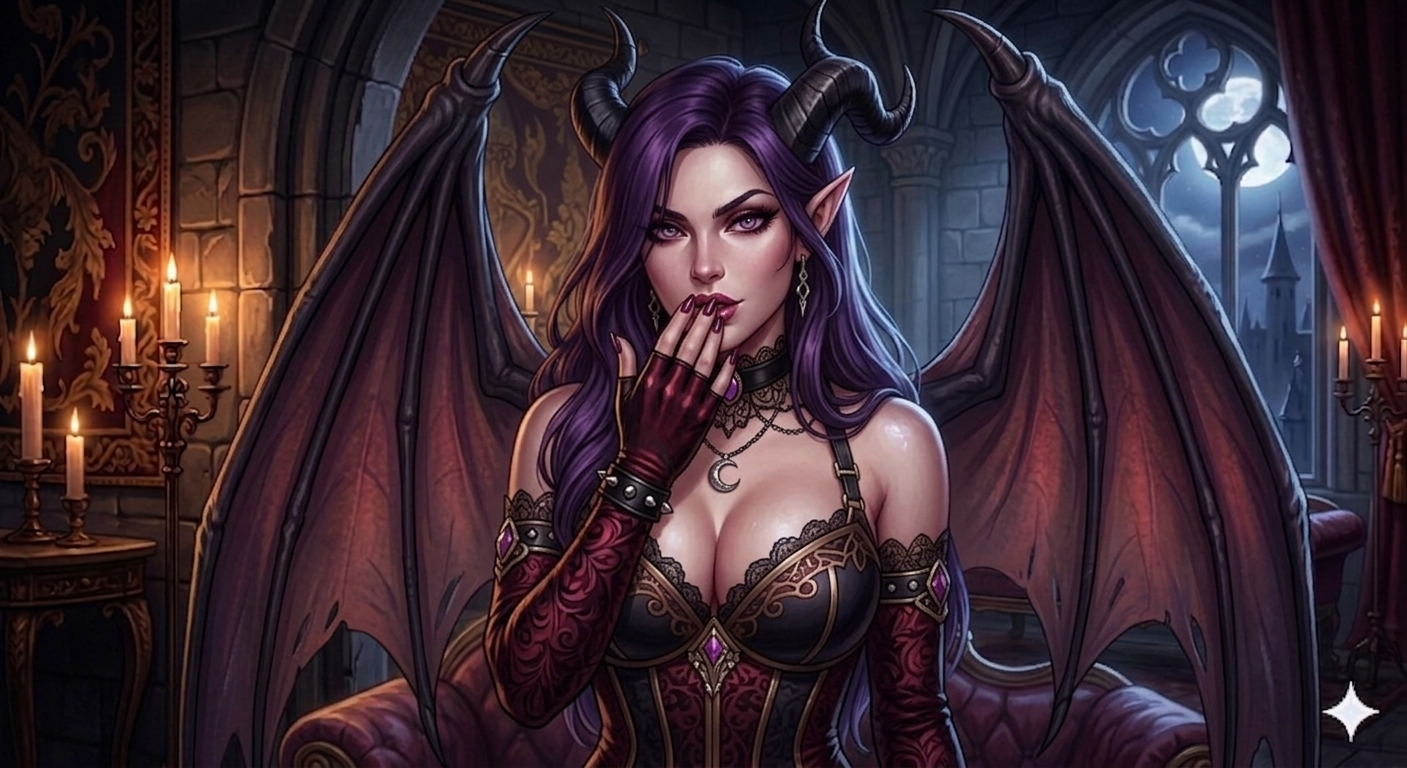
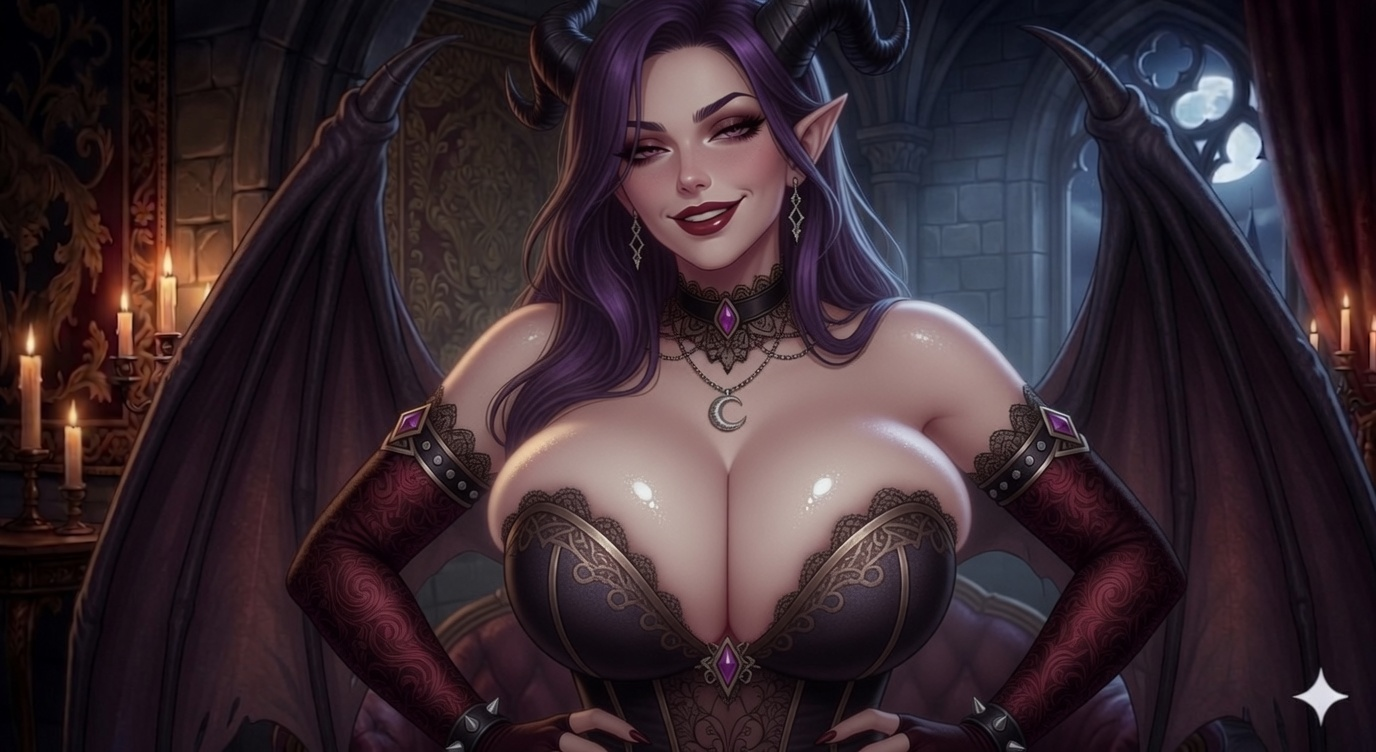
RPG: 스테이지 2배+ 길이 / 도구 액션 / 도구 가호 / 일러 교체
- 층당 7방 → 16방 (보스까지 약 2.3배)
- 새 액션 「도구」 — 5번째 버튼, 소비형 아이템 사용
- TOOLS: 체력 포션, 상급 포션, 불꽃 폭탄, 연막탄, 방벽석, 냉각의 결정, 각성의 모래
  (HP 회복 / 광역 데미지 + 화상 / 회피 / 방어 + 회복 / 쿨다운 즉시 0 / 데미지 +30%)
- 도구 picker 모달 (스킬 picker와 동일 패턴)
- 도구 1종만 보유 시 즉시 사용, 다중 보유 시 picker
- 새 유틸 가호 6종:
  · 약초학자 (common)   — 시작 시 체력 포션 ×2
  · 도굴꾼의 주머니 (common) — 상자에서 도구도 함께 드롭
  · 도구 벨트 (rare)    — 시작 시 무작위 도구 ×3
  · 연금술사 (rare)     — 매 층 시작 시 무작위 도구 ×1
  · 도구 마스터 (epic)  — 엘리트/보스 처치 시 무작위 도구 ×1
  · 도구의 진가 (epic)  — 도구 효과 +50%
- 아리나 이벤트 보상에 50% 확률로 무작위 도구 추가
- 일러 교체:
  · assets/heroes/mage.png (이그니아 일반 체력)
  · assets/scenes/arina.png (서큐버스 아리나)
- 5개 액션 버튼 그리드 (모바일 3열) + 도구 버튼 색 (초록)
- VERSION/캐시 v37-tools-longstage

diff --git a/rpg/game.js b/rpg/game.js
@@ -5,7 +5,7 @@
 const $ = id => document.getElementById(id);
 
 // 빌드 버전 — sw.js의 캐시 키와 같이 올려준다
-const VERSION = 'v36-arina-event';
+const VERSION = 'v37-tools-longstage';
 
 // ===== 영웅 데이터 =====
 const HEROES = [
@@ -195,7 +195,40 @@ const BOONS = [
     apply: g => { applyUnstableSoulTrade(g); } },
   { id: 'b-double',       cat: 'attack', name: '쌍수',       desc: '◆ 공격이 2회 발동 ◇ 모든 스킬 쿨다운 ×2', rarity: 'unstable', mod: { atkMulti: 2, skillCdMul: 2 } },
   { id: 'b-double-skill', cat: 'magic',  name: '이중 시전',  desc: '◆ 스킬이 2회 발동 ◇ 일반 공격 후 2턴 쿨다운', rarity: 'unstable', mod: { skillMulti: 2, attackCdMax: 2 } },
+
+  // 도구(소비 아이템) 관련 — 유틸 카테고리
+  { id: 'b-herbalist',   cat: 'utility', name: '약초학자',   desc: '런 시작 시 「체력 포션」 2개 획득',
+    rarity: 'common', apply: g => { addTool(g, 'potion'); addTool(g, 'potion'); } },
+  { id: 'b-tool-belt',   cat: 'utility', name: '도구 벨트',  desc: '런 시작 시 무작위 도구 3개 획득',
+    rarity: 'rare',   apply: g => { for (let i=0;i<3;i++) addTool(g, randomToolId()); } },
+  { id: 'b-alchemist',   cat: 'utility', name: '연금술사',   desc: '매 층 시작 시 무작위 도구 1개 획득',
+    rarity: 'rare',   mod: { toolEachFloor: 1 }, apply: g => { addTool(g, randomToolId()); } },
+  { id: 'b-tool-master', cat: 'utility', name: '도구 마스터', desc: '엘리트/보스 처치 시 무작위 도구 1개 획득',
+    rarity: 'epic',   mod: { toolOnElite: true } },
+  { id: 'b-loot-pouch',  cat: 'utility', name: '도굴꾼의 주머니', desc: '상자에서 도구도 함께 나온다',
+    rarity: 'common', mod: { chestTool: true } },
+  { id: 'b-toolkit-mastery', cat: 'utility', name: '도구의 진가', desc: '도구 효과 +50%',
+    rarity: 'epic',   mod: { toolPotency: 0.5 } },
 ];
+
+// ===== 도구(소비 아이템) =====
+const TOOLS = {
+  potion:    { id: 'potion',    icon: '🧪', name: '체력 포션',     desc: 'HP +50 회복' },
+  greater:   { id: 'greater',   icon: '❤', name: '상급 포션',     desc: 'HP +120 회복' },
+  bomb:      { id: 'bomb',      icon: '💣', name: '불꽃 폭탄',     desc: '적에게 40 마법 데미지 + 화상 12/4턴' },
+  smoke:     { id: 'smoke',     icon: '💨', name: '연막탄',         desc: '다음 적 공격 완전 회피' },
+  bulwark:   { id: 'bulwark',   icon: '🛡', name: '방벽석',         desc: '즉시 데미지 80% 차단 + HP +15' },
+  cooldown:  { id: 'cooldown',  icon: '💎', name: '냉각의 결정',   desc: '모든 스킬 쿨다운을 즉시 0으로' },
+  haste:     { id: 'haste',     icon: '⏳', name: '각성의 모래',   desc: '이번 전투 모든 데미지 +30%' },
+};
+const TOOL_IDS = Object.keys(TOOLS);
+function randomToolId() { return TOOL_IDS[Math.floor(Math.random() * TOOL_IDS.length)]; }
+function addTool(g, id) {
+  if (!TOOLS[id]) return;
+  if (!g) return;
+  if (!g.tools) g.tools = [];
+  g.tools.push(id);
+}
 
 // ===== 상태 =====
 const game = {
@@ -577,7 +610,7 @@ function newRun() {
     boons: [],
     floor: 1,
     roomNum: 0,
-    roomsPerFloor: 7,
+    roomsPerFloor: 16,
     pendingFork: null,
     skills: [HERO.defaultSkill || 'fireball'],
     skillCds: {},               // { skillId: turnsRemaining }
@@ -587,6 +620,8 @@ function newRun() {
     phoenixUsed: false,
     history: [],
     shopsOfferedThisFloor: 0,
+    tools: [],
+    arinaMet: false,
   };
   // 첫 방은 바로 시작 (전투 또는 가벼운 시작)
   enterFirstRoom();
@@ -694,6 +729,12 @@ function nextStep() {
     if (r.floor > 3) { endRun(true); return; }
     r.roomNum = 1;
     r.shopsOfferedThisFloor = 0;
+    // 연금술사 — 매 층 시작 시 무작위 도구 1개
+    const alch = hasBoonMod('toolEachFloor');
+    if (alch) {
+      const n = alch.mod.toolEachFloor || 1;
+      for (let i = 0; i < n; i++) addTool(r, randomToolId());
+    }
     // 다음 층 시작 표시
     r.history.push({ type: 'floor', kind: 'floor', icon: '🏛', name: '층 ' + r.floor });
     r.history.push({ type: 'combat', kind: 'normal', icon: '⚔', name: '시작' });
@@ -794,6 +835,7 @@ function startBattle(kind, node) {
     lastAction: null,
     log: [],
     over: false,
+    toolDmgBoost: 0,
   };
   $('enemy-name').textContent = def.name + (kind === 'elite' ? ' (엘리트)' : kind === 'boss' ? ' (보스)' : '');
   const art = $('enemy-art');
@@ -861,6 +903,33 @@ function refreshBattleUI() {
       atkBtn.querySelector('.sub').textContent = '기본 공격';
     }
   }
+  // 도구 버튼
+  const toolBtn = document.querySelector('[data-action="tool"]');
+  if (toolBtn) {
+    const tools = r.tools || [];
+    const subEl = toolBtn.querySelector('.sub');
+    const icoEl = toolBtn.querySelector('.ico');
+    const labEl = toolBtn.querySelector('.label');
+    if (tools.length === 0) {
+      toolBtn.disabled = true;
+      icoEl.textContent = '🧰';
+      labEl.textContent = '도구';
+      if (subEl) subEl.textContent = '없음';
+    } else {
+      toolBtn.disabled = false;
+      const unique = [...new Set(tools)];
+      if (unique.length === 1) {
+        const t = TOOLS[unique[0]];
+        icoEl.textContent = t.icon;
+        labEl.textContent = t.name;
+        if (subEl) subEl.textContent = `×${tools.length}`;
+      } else {
+        icoEl.textContent = '🧰';
+        labEl.textContent = '도구';
+        if (subEl) subEl.textContent = `${tools.length}개 (${unique.length}종)`;
+      }
+    }
+  }
   // 상태 표시
   const heroStatus = $('hero-status');
   heroStatus.innerHTML = '';
@@ -923,7 +992,85 @@ function heroAction(action) {
   }
   else if (action === 'skill') openSkillPicker();
   else if (action === 'defend') doDefend();
+  else if (action === 'tool') openToolPicker();
   else if (action === 'flee') doFlee();
+}
+
+// ===== 도구 헬퍼 =====
+function openToolPicker() {
+  const r = game.run;
+  if (!r.tools || r.tools.length === 0) return;
+  if (r.battle.over) return;
+  // 1종류만 보유 → 바로 사용
+  const unique = [...new Set(r.tools)];
+  if (unique.length === 1) { useTool(unique[0]); return; }
+  const modal = $('tool-picker');
+  const wrap = $('tool-picker-list');
+  wrap.innerHTML = '';
+  // 종류별 카운트
+  const counts = {};
+  for (const id of r.tools) counts[id] = (counts[id] || 0) + 1;
+  for (const id of Object.keys(counts)) {
+    const t = TOOLS[id];
+    const card = document.createElement('button');
+    card.className = 'skill-card';
+    card.innerHTML = `
+      <div class="sc-ico">${t.icon}</div>
+      <div class="sc-name">${t.name} ×${counts[id]}</div>
+      <div class="sc-desc">${t.desc}</div>
+      <div class="sc-cd">사용</div>`;
+    card.addEventListener('click', () => {
+      modal.classList.remove('active');
+      useTool(id);
+    });
+    wrap.appendChild(card);
+  }
+  modal.classList.add('active');
+}
+function closeToolPicker() { $('tool-picker').classList.remove('active'); }
+
+function useTool(id) {
+  const r = game.run;
+  const b = r.battle;
+  if (!TOOLS[id]) return;
+  const idx = r.tools.indexOf(id);
+  if (idx < 0) return;
+  const potencyBonus = 1 + (hasBoonMod('toolPotency') ? hasBoonMod('toolPotency').mod.toolPotency : 0);
+  const t = TOOLS[id];
+  let endsTurn = true;
+  if (id === 'potion') {
+    const heal = Math.round(50 * potencyBonus);
+    healHero(heal);
+    log(`🧪 체력 포션 — HP +${heal}`, 'hero');
+  } else if (id === 'greater') {
+    const heal = Math.round(120 * potencyBonus);
+    healHero(heal);
+    log(`❤ 상급 포션 — HP +${heal}`, 'hero');
+  } else if (id === 'bomb') {
+    const dmg = Math.round(40 * potencyBonus);
+    const burnDmg = Math.round(12 * potencyBonus);
+    b.enemy.hp = Math.max(0, b.enemy.hp - dmg);
+    showDmgNum('enemy', dmg, 'magic');
+    log(`💣 불꽃 폭탄 → ${dmg}`, 'hero');
+    applyBurn(b.enemy, burnDmg, 4);
+  } else if (id === 'smoke') {
+    b.heroDefend = 1.0;
+    log(`💨 연막탄 — 다음 적 공격 회피`, 'hero');
+  } else if (id === 'bulwark') {
+    b.heroDefend = 0.8;
+    healHero(Math.round(15 * potencyBonus));
+    log(`🛡 방벽석 — 데미지 -80% + HP +${Math.round(15 * potencyBonus)}`, 'hero');
+  } else if (id === 'cooldown') {
+    for (const sid of Object.keys(r.skillCds)) r.skillCds[sid] = 0;
+    log(`💎 냉각의 결정 — 모든 쿨다운 초기화`, 'hero');
+    endsTurn = false; // 즉시 행동 가능
+  } else if (id === 'haste') {
+    b.toolDmgBoost = 0.3;
+    log(`⏳ 각성의 모래 — 이번 전투 데미지 +30%`, 'hero');
+  }
+  r.tools.splice(idx, 1);
+  refreshBattleUI();
+  if (endsTurn) endTurnHero();
 }
 
 // ===== 스킬 헬퍼 =====
@@ -1227,6 +1374,7 @@ function doFlee() {
 
 function dealDamageToEnemy(dmg, kind) {
   const b = game.run.battle;
+  if (b.toolDmgBoost) dmg = Math.round(dmg * (1 + b.toolDmgBoost));
   b.enemy.hp = Math.max(0, b.enemy.hp - dmg);
   showDmgNum('enemy', dmg, kind);
   hitFlash('enemy');
@@ -1358,6 +1506,12 @@ function onEnemyDefeat() {
   if (goldMul > 0) gold = Math.round(gold * (1 + goldMul));
   game.run.gold += gold;
   log(`+${gold} 골드`, 'system');
+  // 도구 마스터 — 엘리트/보스 처치 시 무작위 도구 1개
+  if (hasBoonMod('toolOnElite') && (b.enemy.kind === 'elite' || b.enemy.def.boss)) {
+    const tid = randomToolId();
+    addTool(game.run, tid);
+    log(`도구 획득! ${TOOLS[tid].icon} ${TOOLS[tid].name}`, 'system');
+  }
   // 영혼 흡수
   if (hasBoonMod('soulSteal')) {
     game.run.maxHp += 5;
@@ -1659,6 +1813,8 @@ function openArinaEvent(node) {
   const grant = () => {
     r.gold += gold;
     r.hp = Math.min(r.maxHp, r.hp + heal);
+    // 50% 확률로 도구 1개 추가 선물
+    if (Math.random() < 0.5) addTool(r, randomToolId());
   };
   if (!r.arinaMet) {
     r.arinaMet = true;
@@ -1722,6 +1878,10 @@ function renderShop() {
 function resolveChestOpen() {
   const node = game.run.pendingChest;
   game.run.pendingChest = null;
+  // 도굴꾼의 주머니 — 상자 열 때 무작위 도구 1개
+  if (hasBoonMod('chestTool')) {
+    addTool(game.run, randomToolId());
+  }
   // 50/50 — 가호 or 미믹
   if (Math.random() < 0.5) {
     const cat = node ? node.rewardCat : null;
@@ -1899,6 +2059,8 @@ function boot() {
   // 스킬 picker 닫기
   $('skill-picker-close').addEventListener('click', closeSkillPicker);
   $('skill-picker-backdrop').addEventListener('click', closeSkillPicker);
+  $('tool-picker-close').addEventListener('click', closeToolPicker);
+  $('tool-picker-backdrop').addEventListener('click', closeToolPicker);
   // 보스/가호 후 진행
   $('boon-skip').addEventListener('click', () => {
     game.run.gold += 30;

diff --git a/rpg/style.css b/rpg/style.css
@@ -980,9 +980,9 @@ button:active { transform: scale(0.96); }
 
 .actions {
   display: grid;
-  grid-template-columns: repeat(4, 1fr);
-  gap: 8px;
-  width: min(720px, 96%);
+  grid-template-columns: repeat(5, 1fr);
+  gap: 6px;
+  width: min(820px, 98%);
   margin: 14px auto 18px;
   z-index: 5;
   position: relative;
@@ -1011,6 +1011,15 @@ button:active { transform: scale(0.96); }
 .action-btn .ico { font-size: 22px; }
 .action-btn .label { font-size: 13px; font-weight: 800; }
 .action-btn .sub { font-size: 10px; color: #9a909a; letter-spacing: 0.05em; }
+.action-btn.tool {
+  background: linear-gradient(180deg, #1a2a1a 0%, #0a1410 100%);
+  border-color: #4a8a5a;
+  box-shadow: 0 0 14px rgba(80, 200, 120, 0.18) inset;
+}
+.action-btn.tool:hover:not(:disabled) {
+  border-color: #7adba0;
+  box-shadow: 0 0 18px rgba(120, 220, 150, 0.45) inset;
+}
 .action-btn.skill {
   border-color: #ff7733;
   background: linear-gradient(180deg, #3a1a14 0%, #2a0a08 100%);
@@ -1047,7 +1056,7 @@ button:active { transform: scale(0.96); }
 /* ============================================================
    스킬 선택 모달
    ============================================================ */
-#skill-picker {
+#skill-picker, #tool-picker {
   position: absolute;
   inset: 0;
   z-index: 150;
@@ -1056,7 +1065,7 @@ button:active { transform: scale(0.96); }
   justify-content: center;
   pointer-events: none;
 }
-#skill-picker.active {
+#skill-picker.active, #tool-picker.active {
   display: flex;
   pointer-events: auto;
 }
@@ -1818,7 +1827,7 @@ button:active { transform: scale(0.96); }
   .battle-stage { gap: 4px; padding: 8px; }
   .vs-divider { display: none; }
   .combatant img, .enemy-art { width: min(140px, 40vw); }
-  .actions { grid-template-columns: repeat(2, 1fr); }
+  .actions { grid-template-columns: repeat(3, 1fr); gap: 5px; }
   .battle-log { height: 70px; font-size: 12px; }
   .menu-actions .big { font-size: 15px; padding: 13px; }
 }

diff --git a/rpg/index.html b/rpg/index.html
@@ -144,6 +144,11 @@
           <span class="label">방어</span>
           <span class="sub">데미지 -50%</span>
         </button>
+        <button class="action-btn tool" data-action="tool">
+          <span class="ico">🧪</span>
+          <span class="label">도구</span>
+          <span class="sub" id="tool-count-label">없음</span>
+        </button>
         <button class="action-btn" data-action="flee">
           <span class="ico">🏃</span>
           <span class="label">도망</span>
@@ -170,6 +175,17 @@
             <button class="sp-close" id="skill-picker-close">✕</button>
           </div>
           <div class="sp-list" id="skill-picker-list"></div>
+        </div>
+      </div>
+      <!-- 도구 선택 모달 -->
+      <div id="tool-picker">
+        <div class="sp-backdrop" id="tool-picker-backdrop"></div>
+        <div class="sp-panel">
+          <div class="sp-header">
+            <span class="sp-title">도구 사용</span>
+            <button class="sp-close" id="tool-picker-close">✕</button>
+          </div>
+          <div class="sp-list" id="tool-picker-list"></div>
         </div>
       </div>
     </div>

diff --git a/rpg/sw.js b/rpg/sw.js
@@ -1,4 +1,4 @@
-const CACHE = 'ignia-v36-arina-event';
+const CACHE = 'ignia-v37-tools-longstage';
 const ASSETS = [
   './',
   './index.html',
